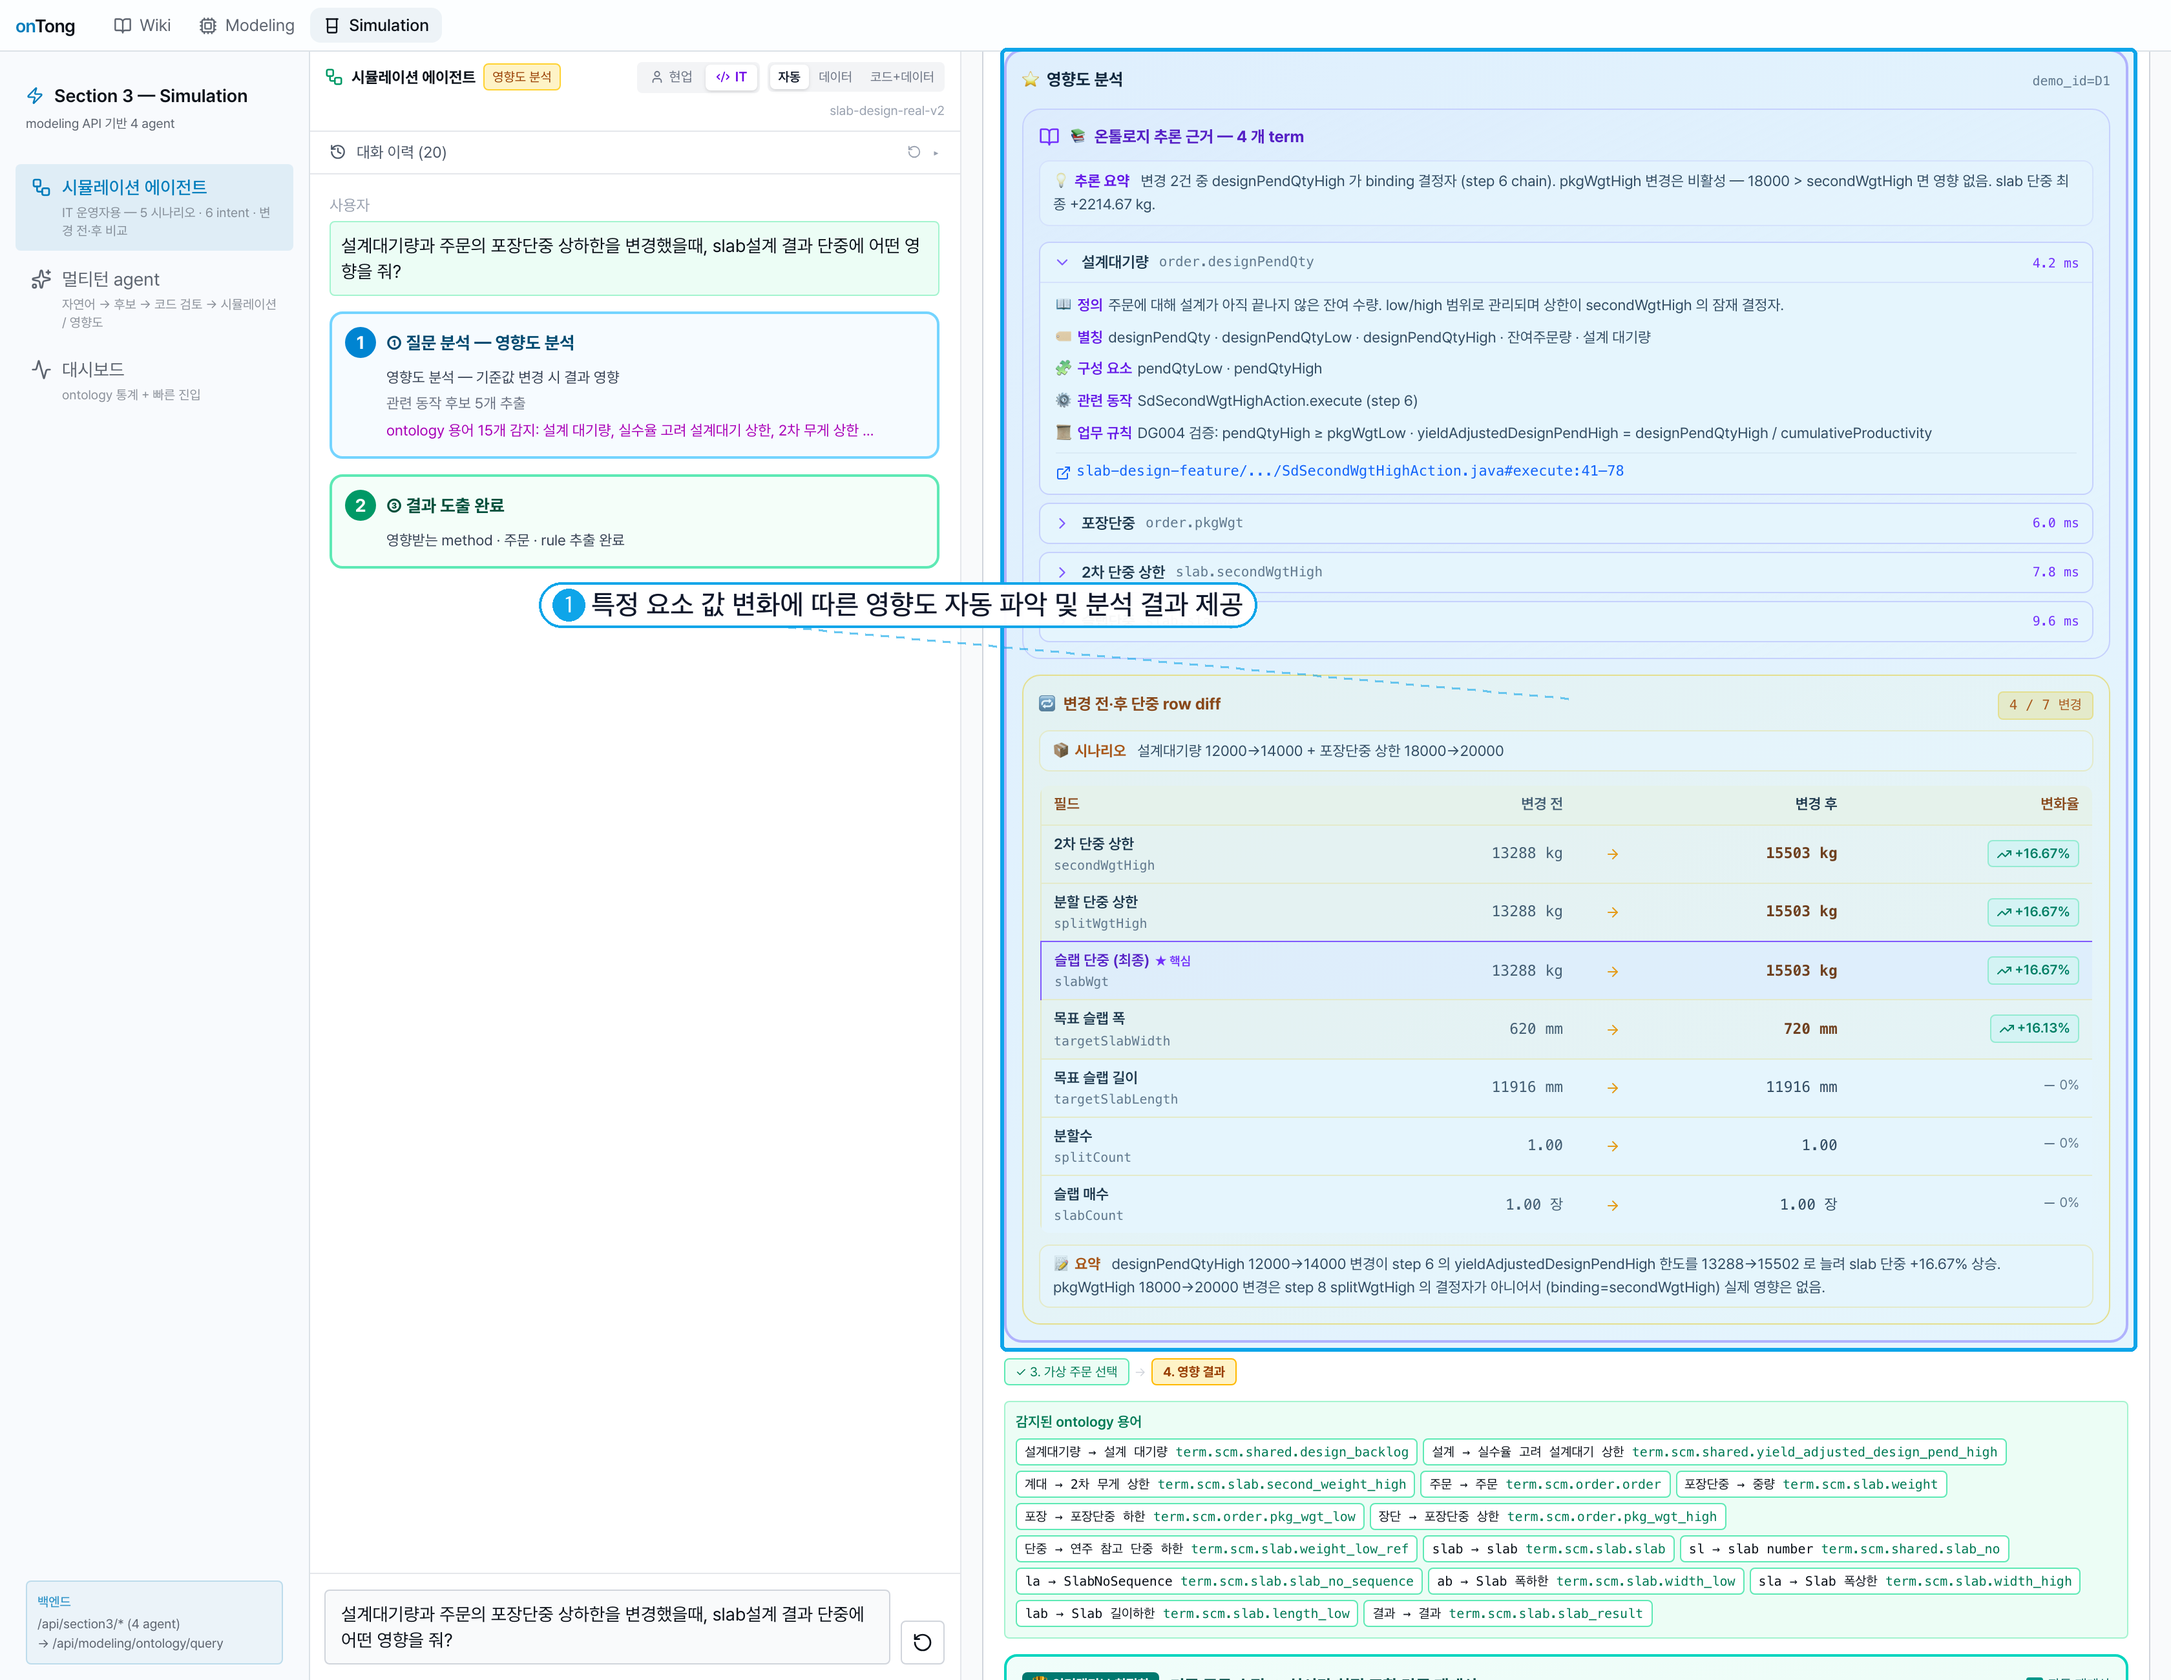
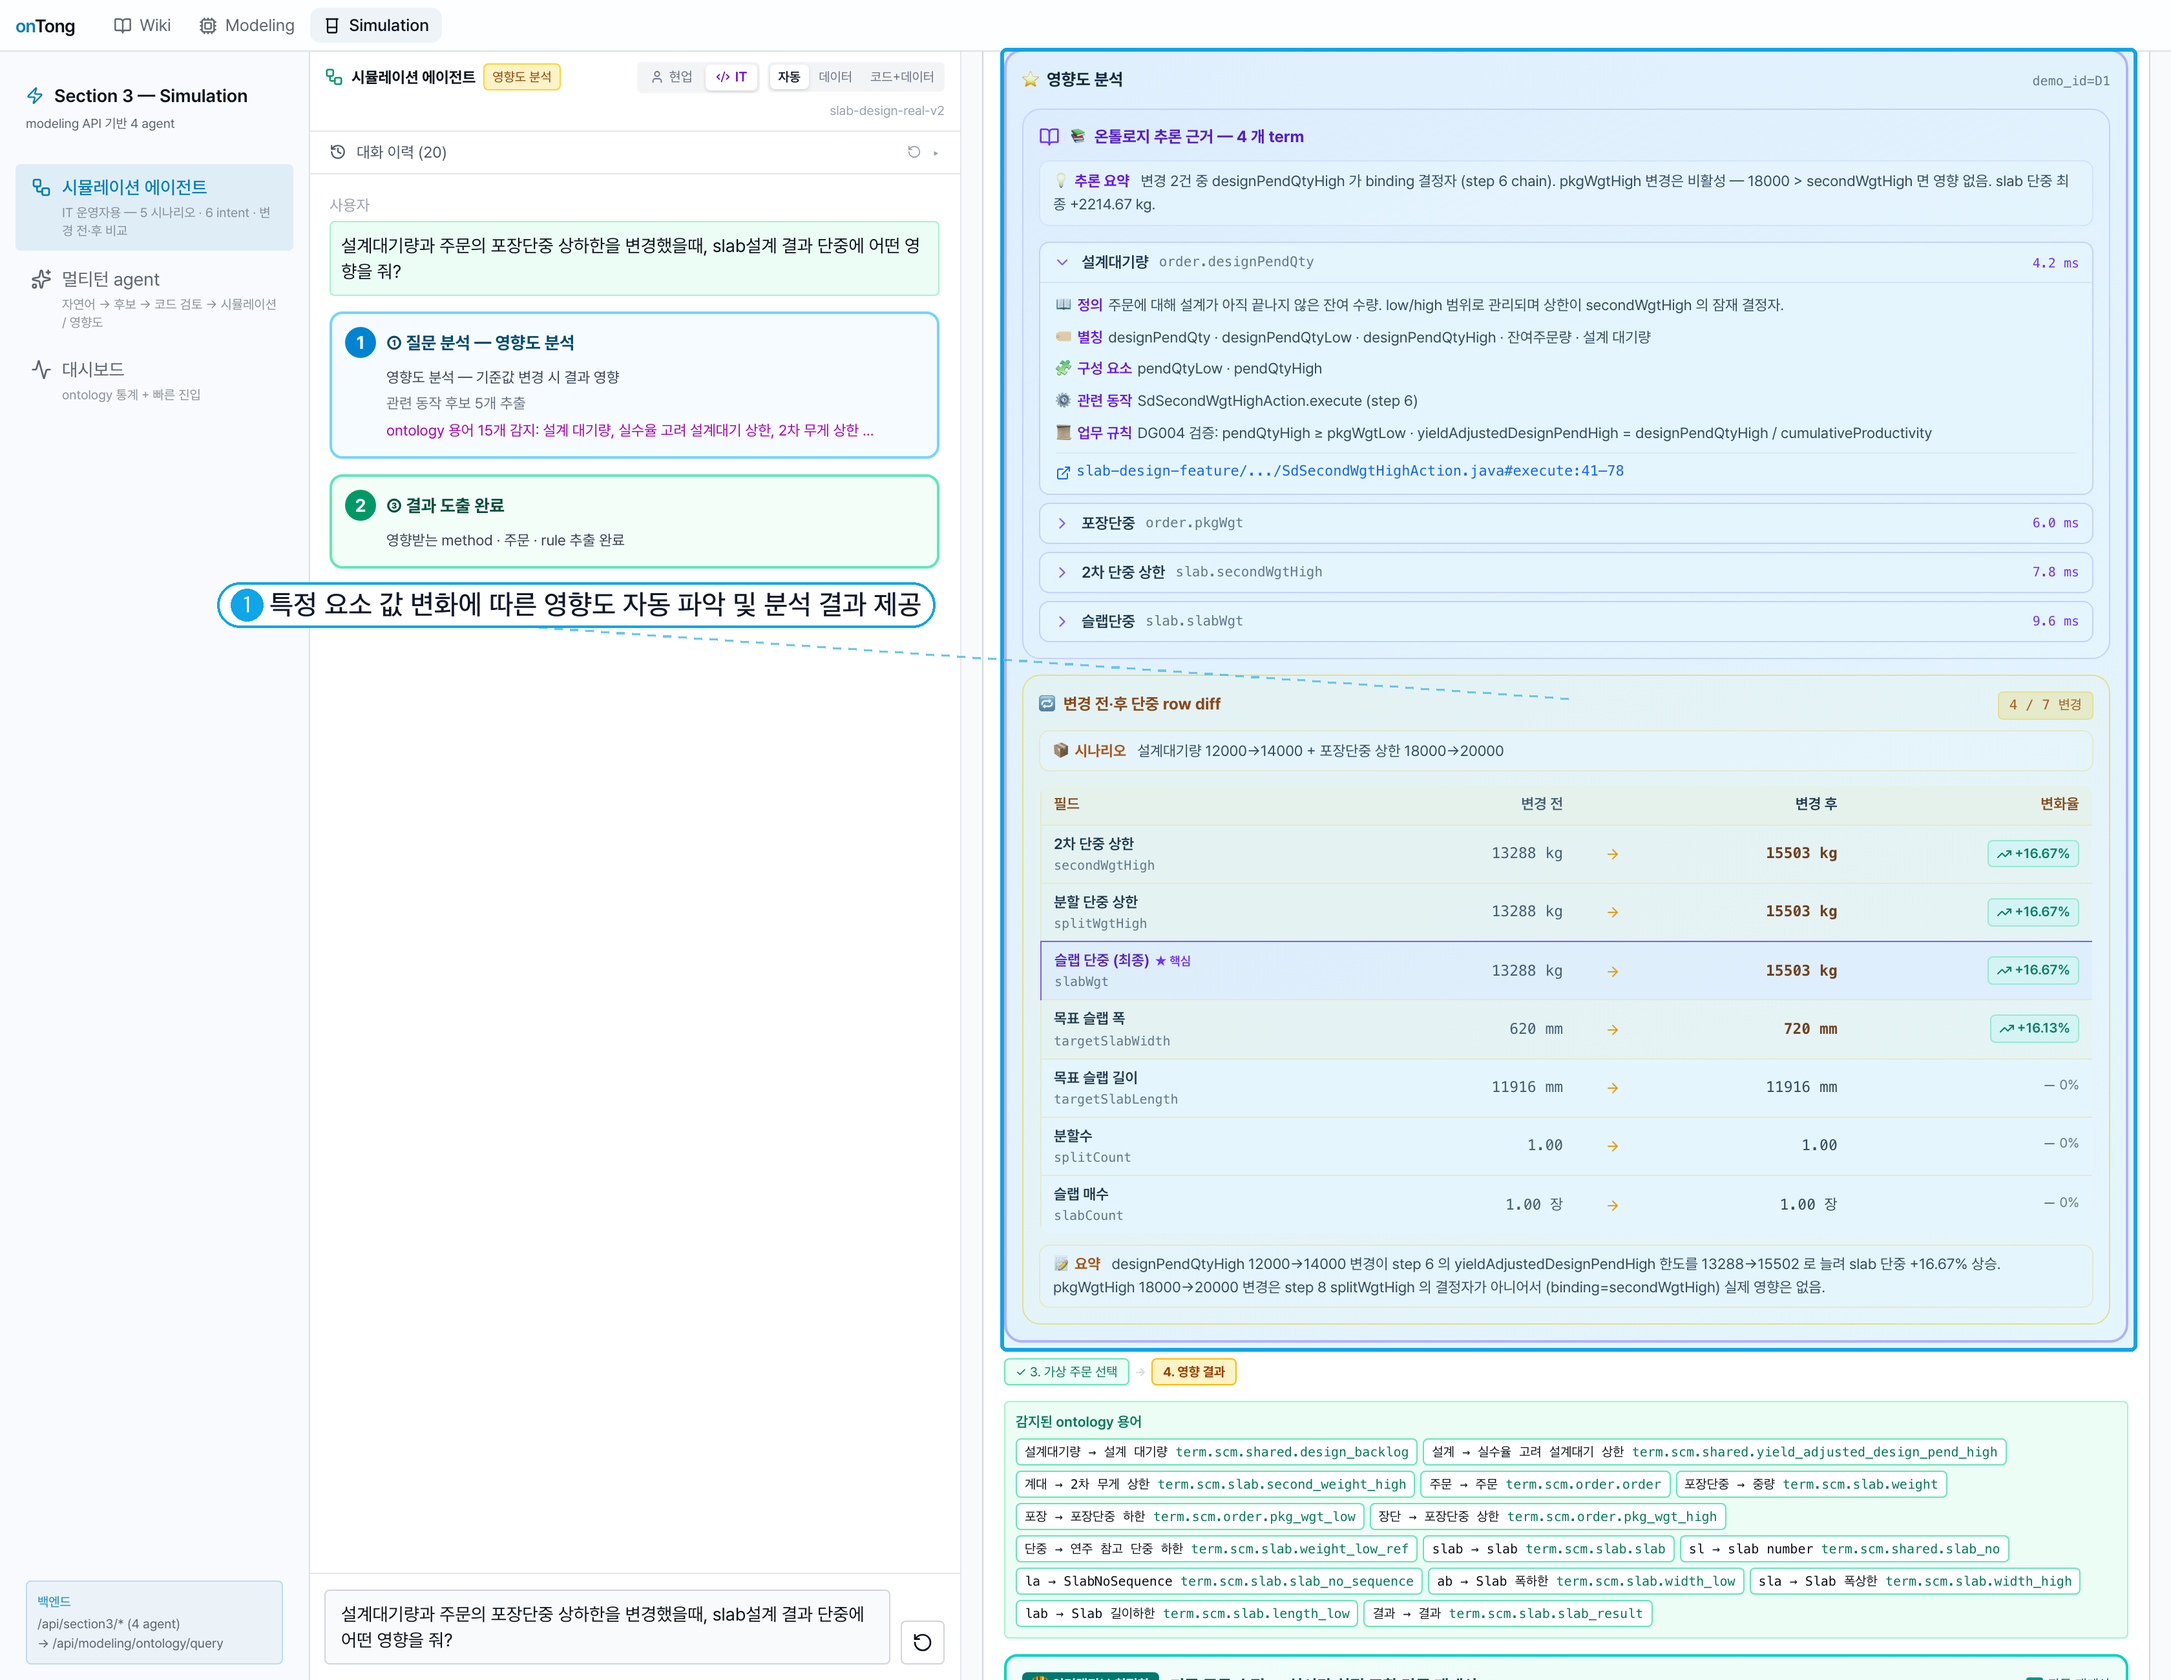
report: simulation 31-34 labels moved left, no longer cover box text
Re-rastered simulation section captures (31-34) after moving each
label's x coordinate to 10% in the master JSON, so labels sit in the
left chat-area whitespace instead of overlapping the right-side
result-box where the meaningful content lives.

Changed region(s): [[0.0938, 0.3427, 0.5938, 0.3738]]

diff --git a/toClaude/reports/온(On)통(通) 팀 - Platform 대회 결과보고서_FINAL_annotated.html b/toClaude/reports/온(On)통(通) 팀 - Platform 대회 결과보고서_FINAL_annotated.html
@@ -3502,7 +3502,6 @@
     </style>
 
 <style>
-  /* annotated FINAL: 16:9 통일 + contain (라스터 박스 안 잘림) */
   .screenshot-thumb {
     aspect-ratio: 16 / 9 !important;
     object-fit: contain !important;
@@ -3511,7 +3510,6 @@
     border-radius: 8px;
   }
 </style>
-
 </head>
 
 <body style="">
